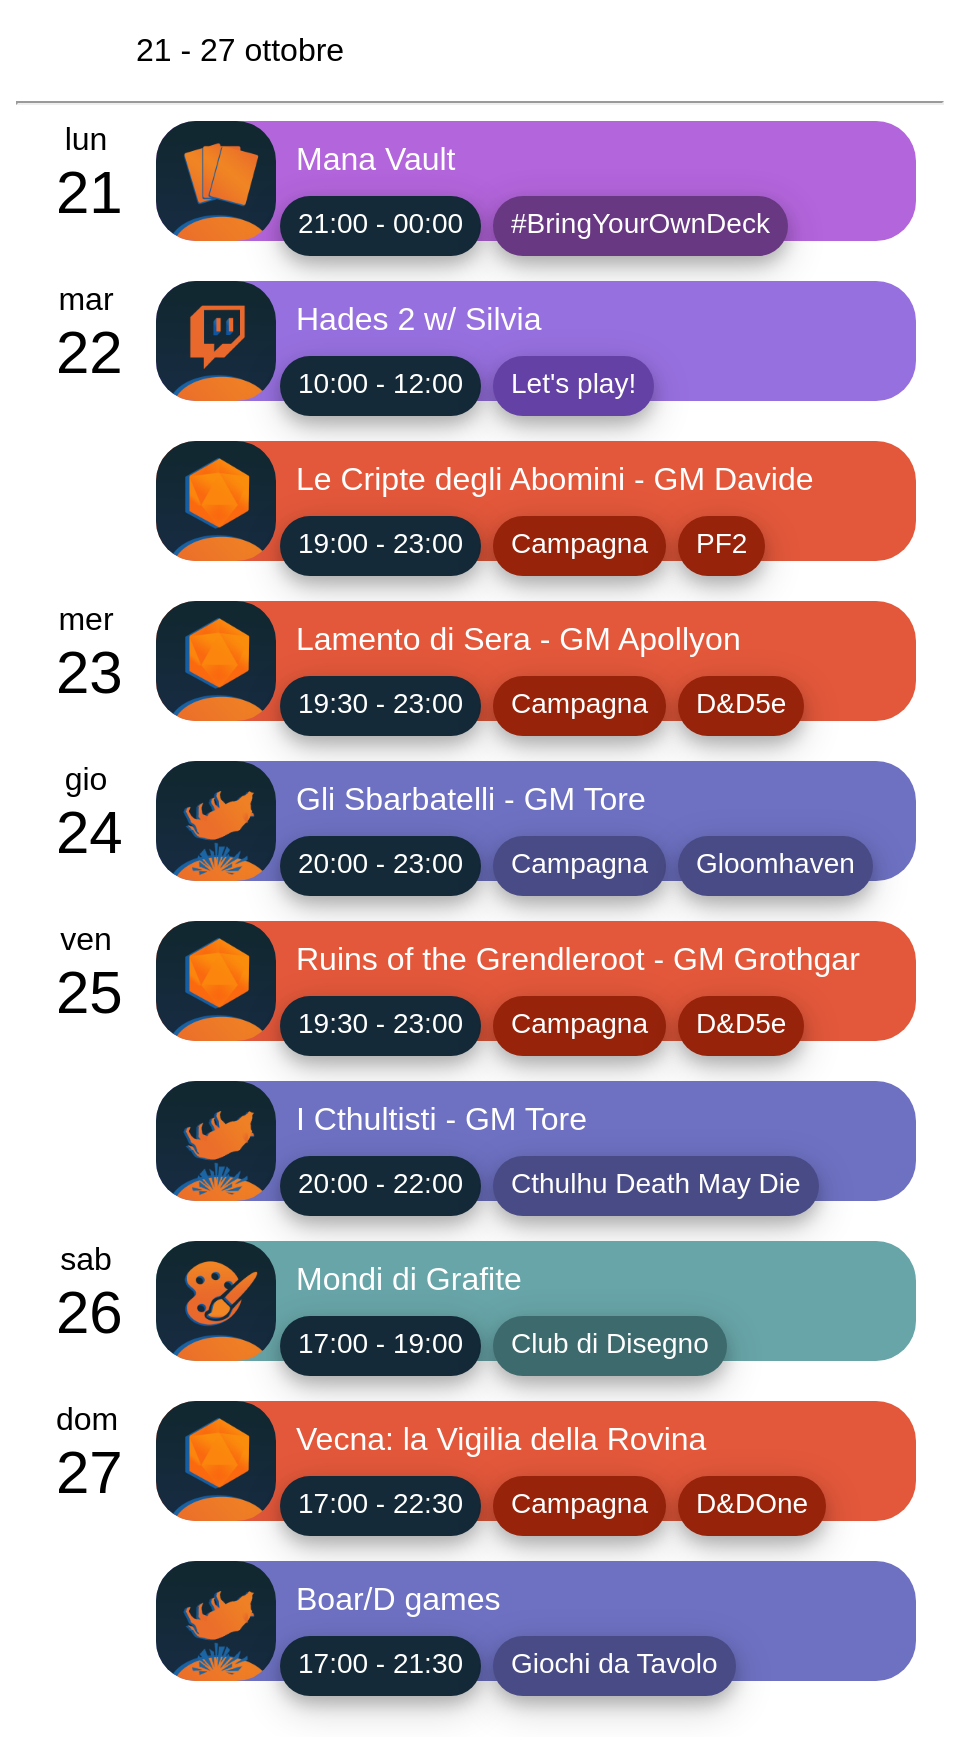
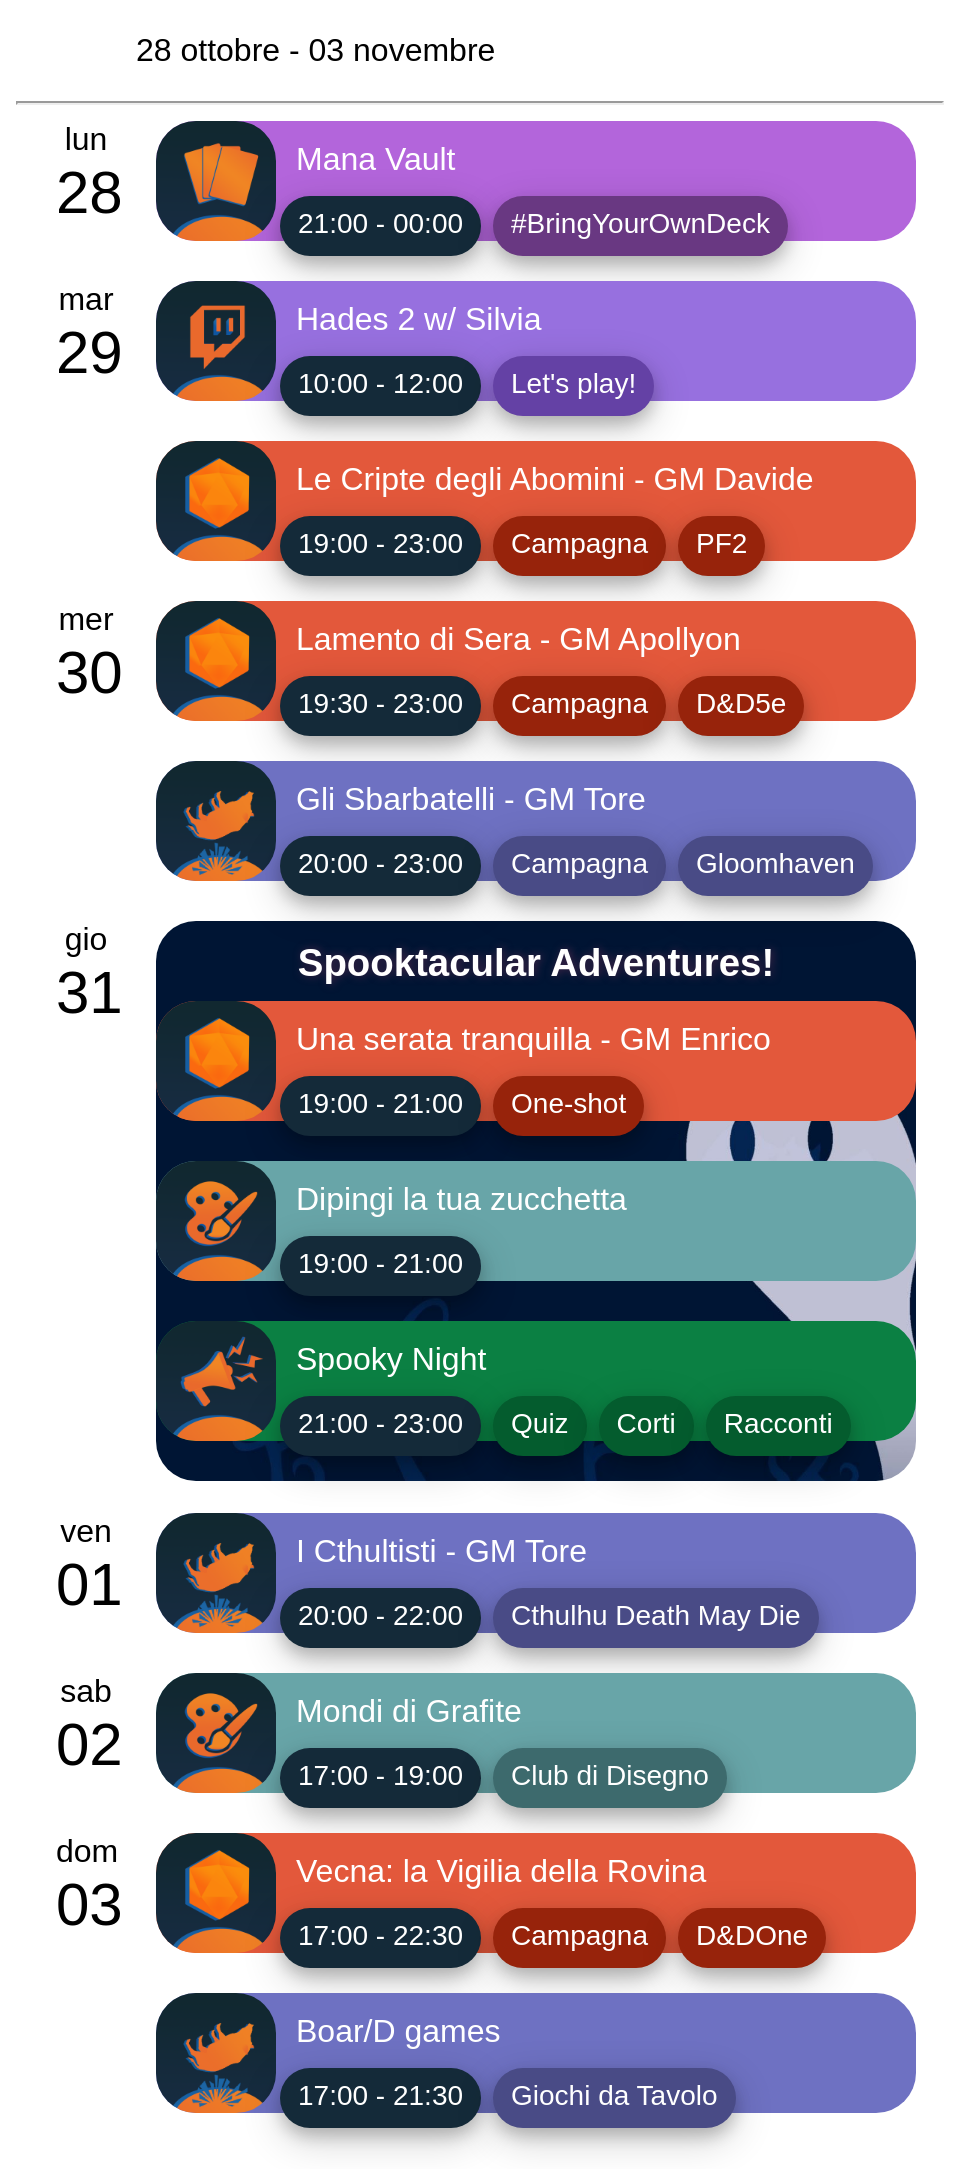
add halloween

diff --git a/static/css/colori_appuntamenti.css b/static/css/colori_appuntamenti.css
@@ -120,6 +120,12 @@
   background-size: 400px 100%, auto; */
 }
 
+/* HALLOWEEN */
+.halloween{
+  background-image: url(../src/SPOOKY.png);
+  background-size: cover;
+}
+
 /* PRIDE */
 .pride{
   background-image: linear-gradient(45deg,

diff --git a/usominidom.py b/usominidom.py
@@ -69,11 +69,14 @@ def getItemsFromDescription(description):
     HARRYPOTTER = "harry"
     PRIDE = "pride"
     NINTENDO = 'nintendo'
+    HALLOWEEN = 'halloween'
 
     if description is None:
         return DEFAULT, []
     tags = re.split("\s#", description)
     match tags[0].lower():
+        case "allouin"|"halloween":
+            return HALLOWEEN, tags[1:]
         case "frullatori"|"3d"|"blender":
             return FRULLATORI, tags[1:]
         case "nintendo":

diff --git a/app.py b/app.py
@@ -16,7 +16,7 @@ def favicon():
 def index():
     # Recupera la settimana dal calendario
     week_data = getContenutoFinale(daysforward=2)
-    return render_template('index_refractor.html', week_data)
+    return render_template('index_refractor.html', week_data=week_data)
 
 def find_free_port():
     """Trova una porta libera sul sistema."""
